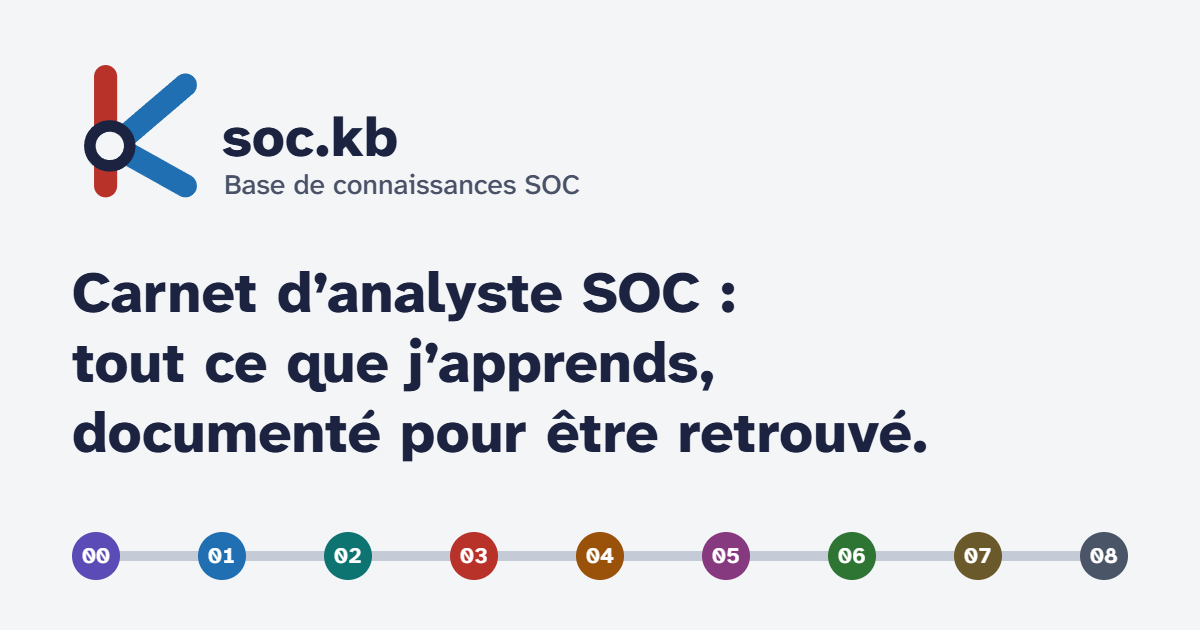
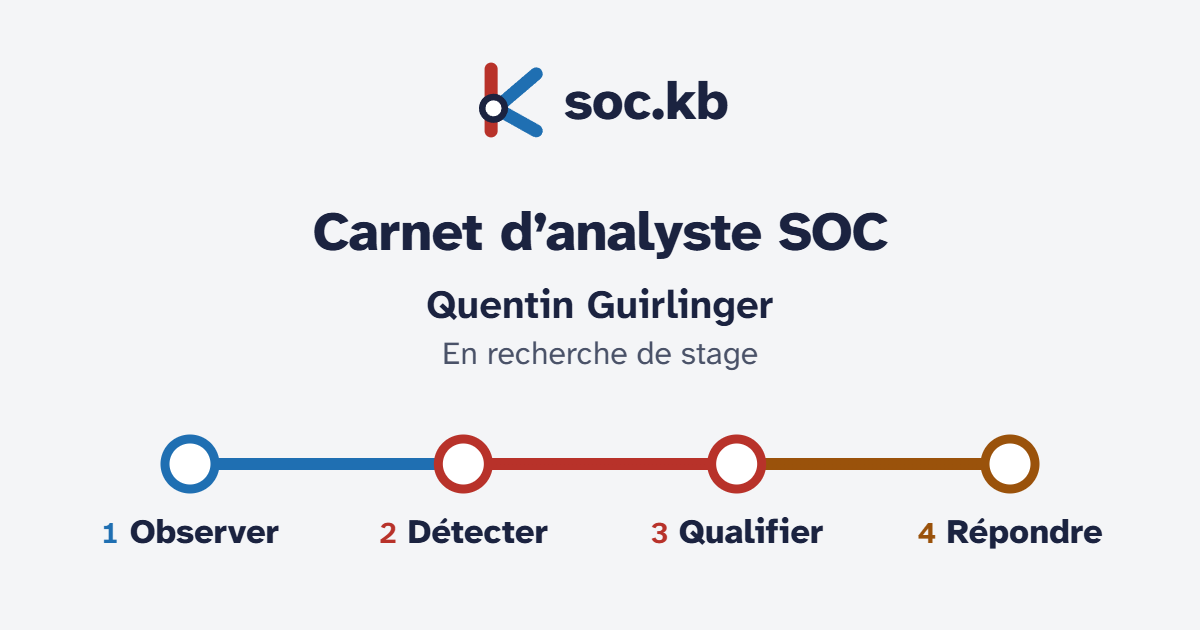
style: nouvelle image de partage et version anti-cache

diff --git a/scripts/og/og.html b/scripts/og/og.html
@@ -1,0 +1,244 @@
+<!doctype html>
+<html lang="fr" data-theme="light">
+  <head>
+    <meta charset="utf-8" />
+    <meta name="viewport" content="width=device-width, initial-scale=1" />
+    <title>Image de partage</title>
+    <!-- Polices et couleurs du site, lues telles quelles : l'image suit tokens.css sans rien recopier. -->
+    <link rel="stylesheet" href="/src/styles/fonts.css" />
+    <link rel="stylesheet" href="/src/styles/tokens.css" />
+    <style>
+      body {
+        margin: 0;
+        padding: var(--sp-12) var(--sp-8);
+        background: var(--surface-2);
+        color: var(--text);
+        font-family: var(--font-sans);
+      }
+      main {
+        display: grid;
+        gap: var(--sp-8);
+        justify-items: start;
+        max-width: 1200px;
+        margin: 0 auto;
+      }
+      canvas {
+        width: 100%;
+        height: auto;
+        box-shadow: var(--shadow);
+      }
+      .previews {
+        display: flex;
+        flex-wrap: wrap;
+        gap: var(--sp-8);
+        align-items: start;
+      }
+      .previews figure {
+        margin: 0;
+        display: grid;
+        gap: var(--sp-4);
+        font-size: var(--fs-sm);
+        color: var(--text-2);
+      }
+      .previews canvas {
+        box-shadow: none;
+        border: var(--bw) solid var(--border);
+      }
+      button {
+        min-height: var(--tap);
+        padding: 0 var(--sp-8);
+        border: 0;
+        border-radius: var(--r-sm);
+        background: var(--ink);
+        color: var(--on-ink);
+        font: inherit;
+        font-weight: var(--fw-bold);
+        cursor: pointer;
+      }
+      button:focus-visible {
+        outline: 3px solid var(--accent);
+        outline-offset: 2px;
+      }
+    </style>
+  </head>
+  <body>
+    <main>
+      <canvas id="og" width="1200" height="630" aria-label="Aperçu de l'image de partage"></canvas>
+      <div class="previews">
+        <figure>
+          <canvas id="small" width="500" height="263"></canvas>
+          <figcaption>Taille d'un fil LinkedIn ou Discord</figcaption>
+        </figure>
+        <figure>
+          <canvas id="square" width="263" height="263"></canvas>
+          <figcaption>Recadrage carré au centre (WhatsApp, iMessage)</figcaption>
+        </figure>
+      </div>
+      <button type="button" id="save">Enregistrer public/og.png</button>
+      <p id="status" role="status"></p>
+    </main>
+
+    <script type="module">
+      const W = 1200;
+      const H = 630;
+
+      // Textes : la marque et le nom viennent de src/data/site.ts et src/data/profile.ts (via le serveur).
+      const { site, name } = await fetch('/data.json').then((r) => r.json());
+      const TITLE = 'Carnet d’analyste SOC';
+      const BYLINE = 'En recherche de stage';
+      // Méthode d'investigation de l'accueil (src/pages/index.astro) : station → ligne de la section où ce savoir vit.
+      const METHOD = [
+        { num: '01', title: 'Observer' },
+        { num: '03', title: 'Détecter' },
+        { num: '03', title: 'Qualifier' },
+        { num: '04', title: 'Répondre' },
+      ];
+
+      const css = getComputedStyle(document.documentElement);
+      const token = (name) => css.getPropertyValue(name).trim();
+      const SANS = token('--font-sans');
+      const MONO = token('--font-mono');
+
+      await Promise.all([
+        document.fonts.load(`800 72px ${SANS}`, TITLE + site),
+        document.fonts.load(`700 34px ${SANS}`, name),
+        document.fonts.load(`400 34px ${SANS}`, BYLINE),
+        document.fonts.load(`700 30px ${MONO}`, '1234'),
+      ]);
+
+      const canvas = document.getElementById('og');
+      const ctx = canvas.getContext('2d');
+
+      /** Logo : le « k » de soc.kb en jonction de plan, même tracé que public/favicon.svg (viewBox 32). */
+      function drawMark(x, y, size) {
+        const s = size / 32;
+        ctx.save();
+        ctx.translate(x, y);
+        ctx.scale(s, s);
+        ctx.lineCap = 'round';
+        ctx.lineJoin = 'round';
+        ctx.lineWidth = 5.5;
+        ctx.strokeStyle = token('--l03');
+        ctx.stroke(new Path2D('M8 3v26'));
+        ctx.strokeStyle = token('--l01');
+        ctx.stroke(new Path2D('M27 5L10 19.5L27 29'));
+        ctx.beginPath();
+        ctx.arc(9, 19.5, 4.75, 0, Math.PI * 2);
+        ctx.fillStyle = token('--surface');
+        ctx.fill();
+        ctx.lineWidth = 2.75;
+        ctx.strokeStyle = token('--ink');
+        ctx.stroke();
+        ctx.restore();
+      }
+
+      function draw() {
+        ctx.clearRect(0, 0, W, H);
+        ctx.fillStyle = token('--bg');
+        ctx.fillRect(0, 0, W, H);
+        ctx.textBaseline = 'alphabetic';
+
+        // Tout ce qui se lit tient dans le carré central (SAFE px de large) : un aperçu recadré en carré
+        // garde le logo, l'accroche et le nom entiers ; seules les stations extrêmes du tracé en sortent.
+        const SAFE = 590;
+        ctx.textAlign = 'center';
+
+        // 1. Logo centré : pictogramme + « soc.kb ».
+        const markSize = 76;
+        ctx.font = `800 54px ${SANS}`;
+        ctx.letterSpacing = '-1px';
+        const brandW = ctx.measureText(site).width;
+        const gap = 16;
+        const lockW = markSize + gap + brandW;
+        const lockX = (W - lockW) / 2;
+        const lockY = 62;
+        drawMark(lockX, lockY, markSize);
+        ctx.fillStyle = token('--text');
+        ctx.textAlign = 'left';
+        ctx.fillText(site, lockX + markSize + gap, lockY + markSize * 0.75);
+
+        // 2. Accroche, à la plus grande taille qui tient dans le carré central.
+        ctx.textAlign = 'center';
+        ctx.letterSpacing = '-1px';
+        ctx.font = `800 100px ${SANS}`;
+        const titleSize = Math.floor((100 * SAFE) / ctx.measureText(TITLE).width);
+        ctx.font = `800 ${titleSize}px ${SANS}`;
+        ctx.fillStyle = token('--text');
+        ctx.fillText(TITLE, W / 2, 250);
+
+        // 3. Signature : le nom, puis la recherche de stage.
+        ctx.letterSpacing = '0px';
+        ctx.font = `700 40px ${SANS}`;
+        ctx.fillText(name, W / 2, 318);
+        ctx.font = `400 32px ${SANS}`;
+        ctx.fillStyle = token('--text-2');
+        ctx.fillText(BYLINE, W / 2, 364);
+
+        // 4. La méthode en ligne à quatre stations, tracé coloré par tiers comme sur l'accueil.
+        const x0 = 190;
+        const x1 = W - 190;
+        const trackY = 464;
+        const trackW = 12;
+        const step = (x1 - x0) / (METHOD.length - 1);
+        const grad = ctx.createLinearGradient(x0, 0, x1, 0);
+        const stops = [
+          [0, '--l01'],
+          [1 / 3, '--l01'],
+          [1 / 3, '--l03'],
+          [2 / 3, '--l03'],
+          [2 / 3, '--l04'],
+          [1, '--l04'],
+        ];
+        for (const [at, name] of stops) grad.addColorStop(at, token(name));
+        ctx.fillStyle = grad;
+        ctx.beginPath();
+        ctx.roundRect(x0, trackY - trackW / 2, x1 - x0, trackW, trackW / 2);
+        ctx.fill();
+
+        METHOD.forEach((m, i) => {
+          const cx = x0 + i * step;
+          const line = token(`--l${m.num}`);
+          ctx.beginPath();
+          ctx.arc(cx, trackY, 25, 0, Math.PI * 2);
+          ctx.fillStyle = token('--surface');
+          ctx.fill();
+          ctx.lineWidth = 9;
+          ctx.strokeStyle = line;
+          ctx.stroke();
+
+          // Libellé : numéro d'étape en mono, puis le nom de la station.
+          const num = String(i + 1);
+          ctx.font = `700 30px ${MONO}`;
+          const numW = ctx.measureText(num).width;
+          ctx.font = `800 34px ${SANS}`;
+          const titleW = ctx.measureText(m.title).width;
+          const labelGap = 10;
+          const lx = cx - (numW + labelGap + titleW) / 2;
+          ctx.textAlign = 'left';
+          ctx.font = `700 30px ${MONO}`;
+          ctx.fillStyle = line;
+          ctx.fillText(num, lx, 543);
+          ctx.font = `800 34px ${SANS}`;
+          ctx.fillStyle = token('--text');
+          ctx.fillText(m.title, lx + numW + labelGap, 543);
+        });
+      }
+
+      draw();
+
+      // Aperçus : taille réduite d'un fil d'actualité et recadrage carré central.
+      const small = document.getElementById('small').getContext('2d');
+      small.drawImage(canvas, 0, 0, 500, 263);
+      const square = document.getElementById('square').getContext('2d');
+      square.drawImage(canvas, (W - H) / 2, 0, H, H, 0, 0, 263, 263);
+
+      const status = document.getElementById('status');
+      document.getElementById('save').addEventListener('click', async () => {
+        const blob = await new Promise((ok) => canvas.toBlob(ok, 'image/png'));
+        const res = await fetch('/save', { method: 'POST', body: blob });
+        status.textContent = res.ok ? `public/og.png enregistré (${(blob.size / 1024).toFixed(1)} Ko).` : await res.text();
+      });
+      document.documentElement.dataset.ready = 'true';
+    </script>
+  </body>
+</html>

diff --git a/src/data/profile.ts b/src/data/profile.ts
@@ -10,6 +10,8 @@ export interface Formation {
 }
 
 export const PROFILE = {
+  /** Nom affiché sur l'image de partage (`public/og.png`) et dans son texte alternatif. */
+  name: 'Quentin Guirlinger',
   /** Pastille au-dessus du titre. */
   status: 'Recherche un stage — Analyste SOC',
   /** Une ou deux phrases de présentation : qui je suis, ma formation. */

diff --git a/README.md b/README.md
@@ -35,6 +35,10 @@ npm run build      # vérification des types, build de production, index de rech
 npm run preview    # prévisualiser le build (nécessaire pour tester la recherche)
 ```
 
+L'image de partage (`public/og.png`, 1200 × 630) se régénère avec `npm run og`, puis en ouvrant <http://localhost:4399/> :
+la page la dessine avec les polices et les couleurs du site, montre son rendu réduit et recadré en carré, et l'enregistre d'un clic.
+Son adresse porte une empreinte du fichier, si bien que les réseaux sociaux rechargent l'image dès qu'elle change.
+
 Le build échoue si une page ne respecte pas son schéma, si un lien interne est cassé ou si un bloc Markdown est mal formé.
 
 Le site est construit avec [Astro](https://astro.build), la recherche avec [Pagefind](https://pagefind.app).
